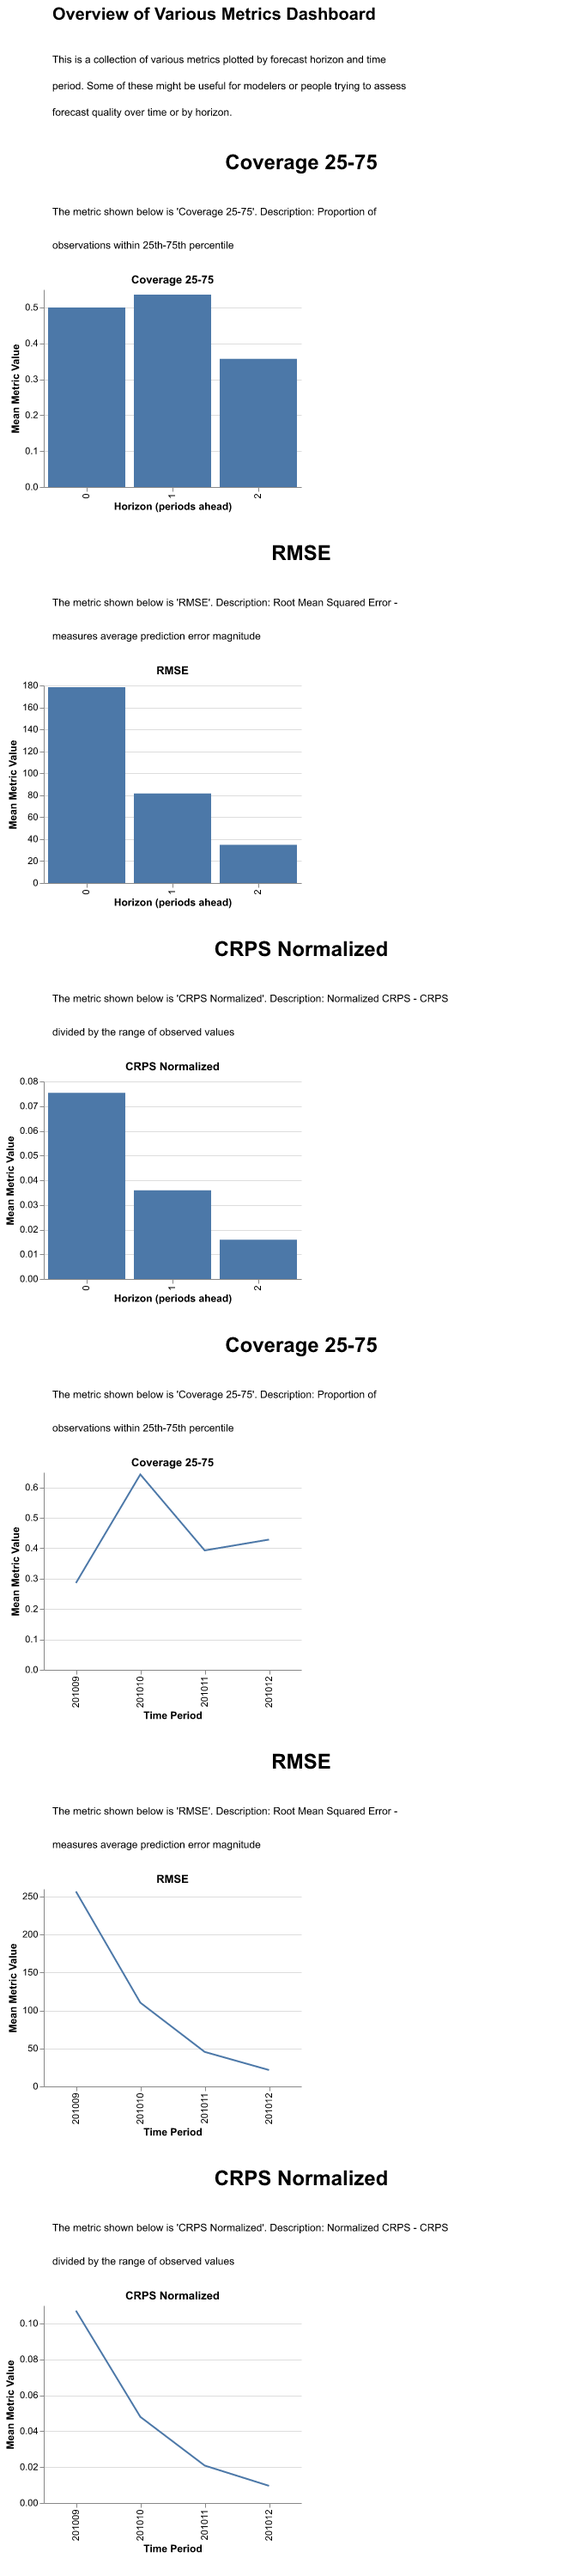
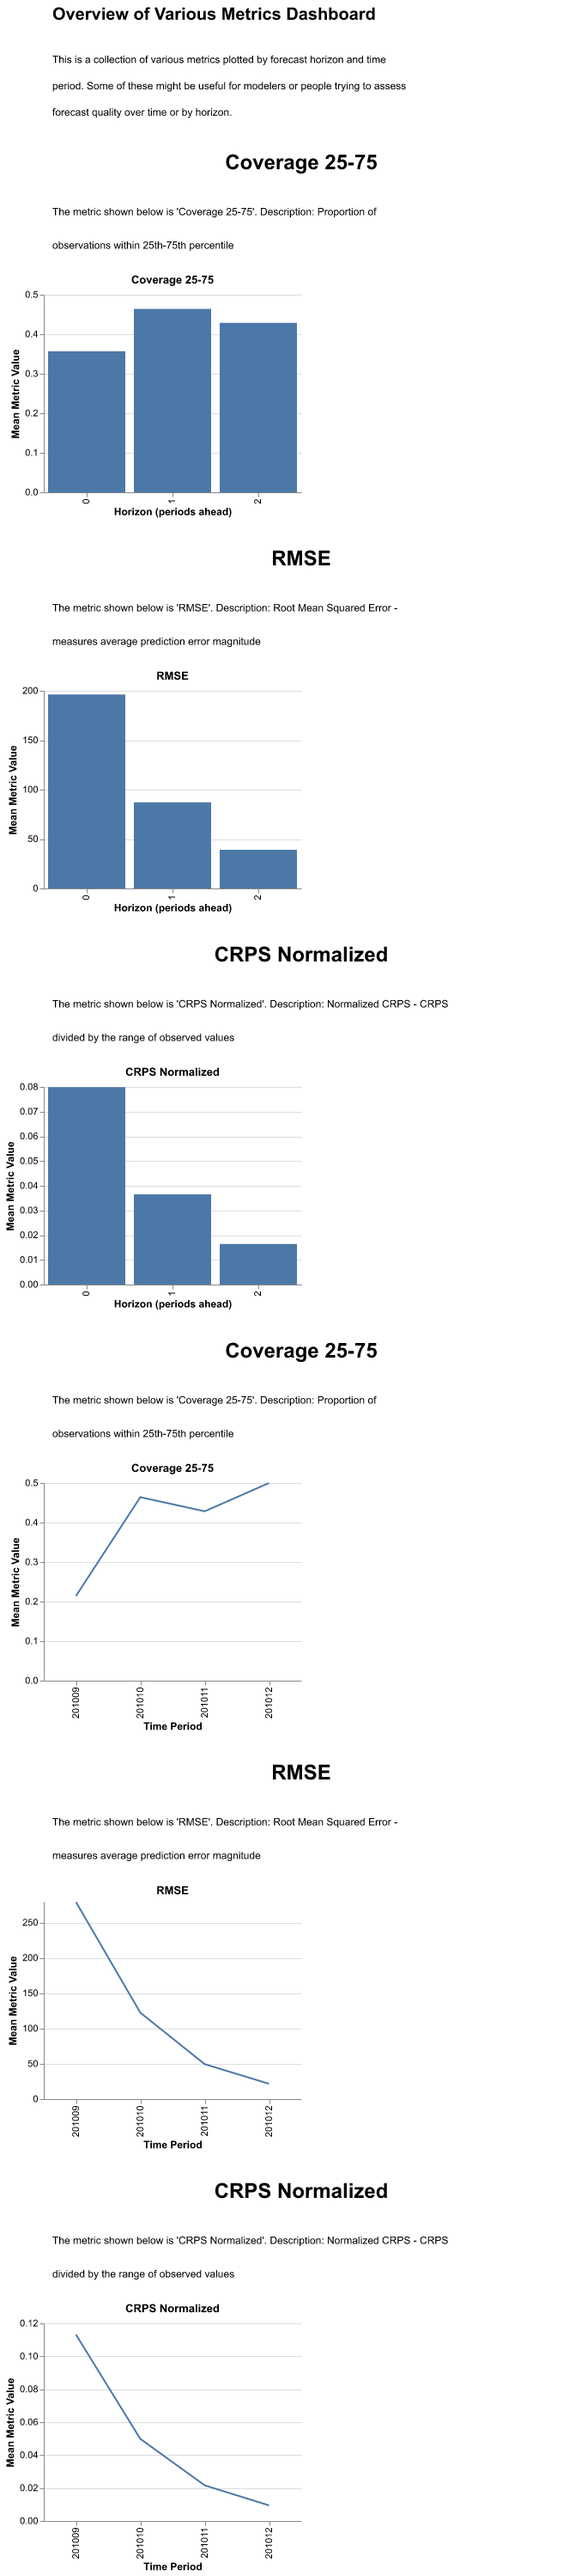
docs: remove GeoJSON download and preparation from Monday workshop
Run evaluation without GeoJSON polygons to simplify the workshop
flow. Regenerated all output images and updated metrics table.

diff --git a/docs/kigali-workshop/kigali-workshop-material/monday-afternoon.md b/docs/kigali-workshop/kigali-workshop-material/monday-afternoon.md
@@ -15,55 +15,27 @@ Create a working directory and download the Laos dengue dataset (monthly, admin-
 $ mkdir laos-workshop && cd laos-workshop
 $ curl -sL -o chap_LAO_admin1_monthly.csv \
     "https://raw.githubusercontent.com/dhis2/climate-health-data/main/lao/chap_LAO_admin1_monthly.csv"
-$ curl -sL -o LAO_ADM1.geojson \
-    "https://raw.githubusercontent.com/dhis2/climate-health-data/main/lao/LAO_ADM1.geojson"
 ```
 
 The CSV contains ~2800 rows covering 18 provinces from 1998-2010 with columns: `time_period`, `location`, `disease_cases`, `population`, `location_name`, `rainfall`, `mean_temperature`, `mean_relative_humidity`.
 
-### 2. Prepare the GeoJSON
-
-The `chap eval` command auto-discovers a GeoJSON file when it shares the same base name as the CSV. The GeoJSON also needs an `id` property matching the ISO location codes used in the CSV.
-
-Rename the file and add the required `id` fields:
-
-```console
-$ mv LAO_ADM1.geojson chap_LAO_admin1_monthly.geojson
-$ python -c "
-import json
-with open('chap_LAO_admin1_monthly.geojson') as f:
-    data = json.load(f)
-for feature in data['features']:
-    feature['id'] = feature['properties']['shapeISO']
-    feature['properties']['id'] = feature['properties']['shapeISO']
-with open('chap_LAO_admin1_monthly.geojson', 'w') as f:
-    json.dump(data, f)
-print('Done - added id from shapeISO')
-"
-```
-
-### 3. Clean the data
+### 2. Clean the data
 
 Some provinces have missing disease case data. Remove them so the models can run cleanly:
 
 ```console
 $ python -c "
-import pandas as pd, json
+import pandas as pd
 df = pd.read_csv('chap_LAO_admin1_monthly.csv')
 bad = df.groupby('location')['disease_cases'].apply(lambda x: x.isna().any())
 bad_locs = bad[bad].index.tolist()
 print(f'Removing {len(bad_locs)} locations with missing data: {bad_locs}')
 df[~df['location'].isin(bad_locs)].to_csv('chap_LAO_admin1_monthly.csv', index=False)
-with open('chap_LAO_admin1_monthly.geojson') as f:
-    geo = json.load(f)
-geo['features'] = [ft for ft in geo['features'] if ft['id'] not in bad_locs]
-with open('chap_LAO_admin1_monthly.geojson', 'w') as f:
-    json.dump(geo, f)
-print(f'Dataset now has {df[\"location\"].nunique() - len(bad_locs)} locations')
+print(f'Dataset now has {df["location"].nunique() - len(bad_locs)} locations')
 "
 ```
 
-### 4. Explore the dataset
+### 3. Explore the dataset
 
 ```console
 $ chap plot-dataset chap_LAO_admin1_monthly.csv
@@ -73,7 +45,7 @@ This opens an interactive plot in your browser showing standardized disease case
 
 ![Laos dataset overview](assets/laos_dataset.png)
 
-### 5. Evaluate Model A -- Naive baseline
+### 4. Evaluate Model A -- Naive baseline
 
 Run a backtest with 2 train/test splits and a 3-month forecast horizon using the built-in naive model:
 
@@ -100,7 +72,7 @@ $ chap plot-backtest naive_eval.nc naive_metrics_dashboard.png --plot-type metri
 
 ![Naive metrics dashboard](assets/naive_metrics_dashboard.png)
 
-### 6. Evaluate Model B -- Auto-EWARS
+### 5. Evaluate Model B -- Auto-EWARS
 
 Now evaluate a more sophisticated model. The EWARS model is fetched directly from GitHub:
 
@@ -127,7 +99,7 @@ $ chap plot-backtest ewars_eval.nc ewars_metrics_dashboard.png --plot-type metri
 
 ![EWARS metrics dashboard](assets/ewars_metrics_dashboard.png)
 
-### 7. Compare models
+### 6. Compare models
 
 Export aggregate metrics from both evaluations into a single CSV:
 
@@ -142,8 +114,8 @@ The output CSV contains one row per model with columns for each metric:
 
 | model | mae | rmse | crps | coverage_10_90 |
 |---|---|---|---|---|
-| naive_python_model_uv | 131.5 | 275.5 | 109.6 | 0.607 |
-| chap_auto_ewars | 98.3 | 197.8 | 73.3 | 0.726 |
+| naive_python_model_uv | 131.7 | 278.8 | 109.8 | 0.595 |
+| chap_auto_ewars | 107.5 | 224.5 | 76.6 | 0.702 |
 
 Lower MAE, RMSE, and CRPS indicate better accuracy. Coverage_10_90 measures how often the true value falls within the 10th-90th percentile prediction interval (ideal: 0.80).
 
